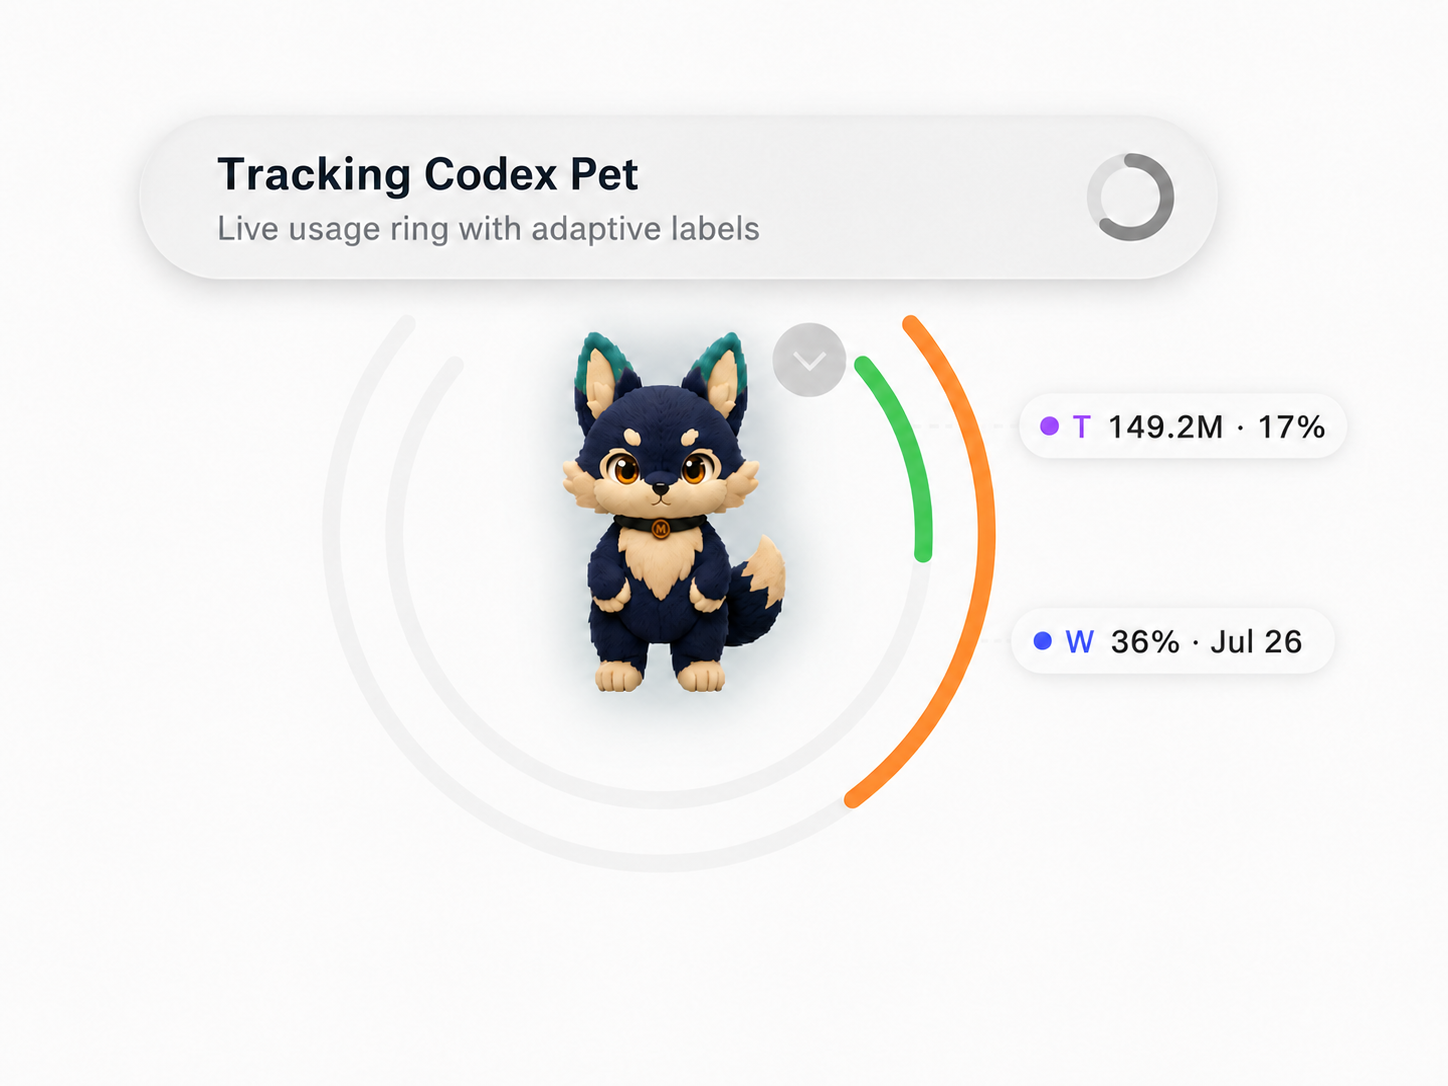
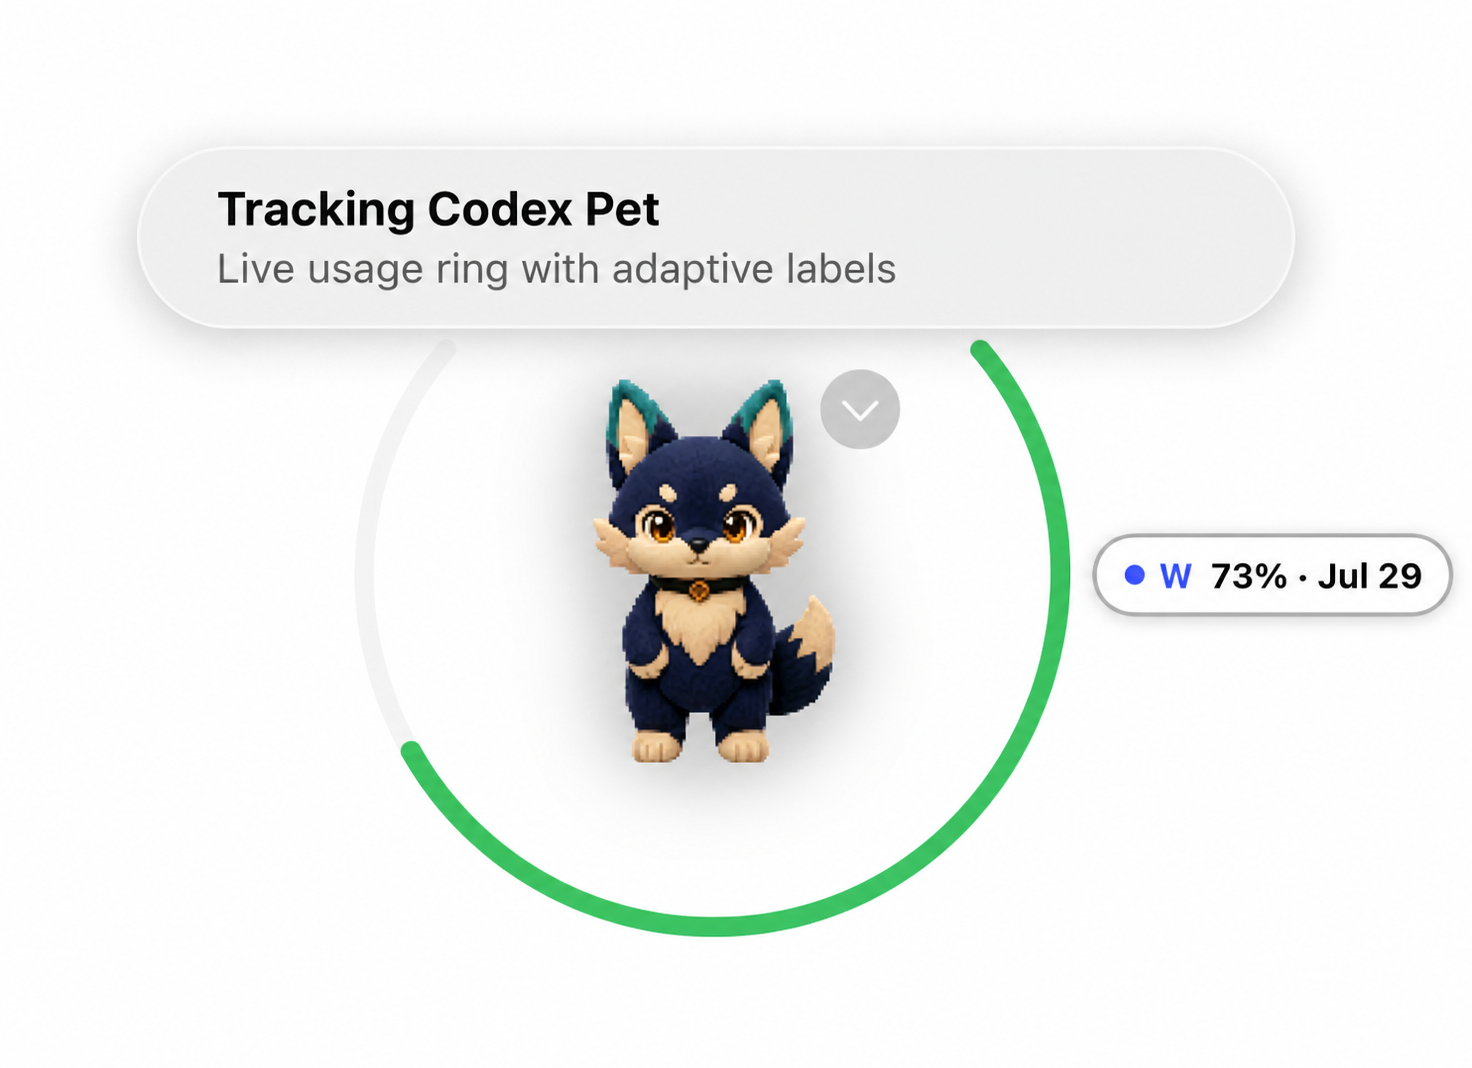
docs(readme): refresh current Pet Ring previews

diff --git a/README.md b/README.md
@@ -16,23 +16,23 @@ Pet Halo is a macOS menu-bar companion that places a transparent Usage ring arou
 <table>
   <tr>
     <td width="50%" align="center">
-      <img src="docs/assets/screenshots/pet-halo-activity-above.png" width="100%" alt="Pet Halo with Codex activity above and Usage labels on the right">
+      <img src="docs/assets/screenshots/pet-halo-activity-above.png" width="100%" alt="Pet Halo current source with the Codex task card above and Weekly label on the right">
     </td>
     <td width="50%" align="center">
-      <img src="docs/assets/screenshots/pet-halo-activity-below.png" width="100%" alt="Pet Halo with Codex activity below and Usage labels on the left">
+      <img src="docs/assets/screenshots/pet-halo-activity-below.png" width="100%" alt="Pet Halo current source with the Codex task card below and Weekly label on the left">
     </td>
   </tr>
   <tr>
-    <td align="center">Activity above · labels on the right</td>
-    <td align="center">Activity below · labels on the left</td>
+    <td align="center">Task card above · Weekly label on the right</td>
+    <td align="center">Task card below · Weekly label on the left</td>
   </tr>
 </table>
 
 Codex Pet is shown only to demonstrate integration. It is not Pet Halo project branding.
 
-> The screenshots show the published Beta 2 surface. Current source removes its
-> Today ring and keeps the inner layout slot empty for a future exact Context
-> Remaining metric.
+> These screenshots show current source behavior: Weekly is visible, the optional
+> 5h ring is omitted when unavailable, and the inner layout slot stays hidden for
+> a future exact Context Remaining metric.
 
 ## What the rings mean
 
